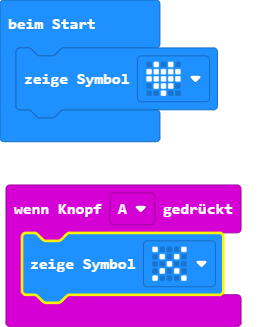
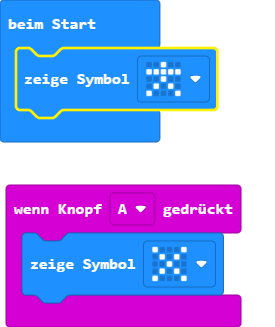
Aktualisiere pxt.json, main.blocks, main.ts

diff --git a/main.ts b/main.ts
@@ -1,4 +1,4 @@
 input.onButtonPressed(Button.A, function () {
     basic.showIcon(IconNames.No)
 })
-basic.showIcon(IconNames.Heart)
+basic.showIcon(IconNames.StickFigure)
